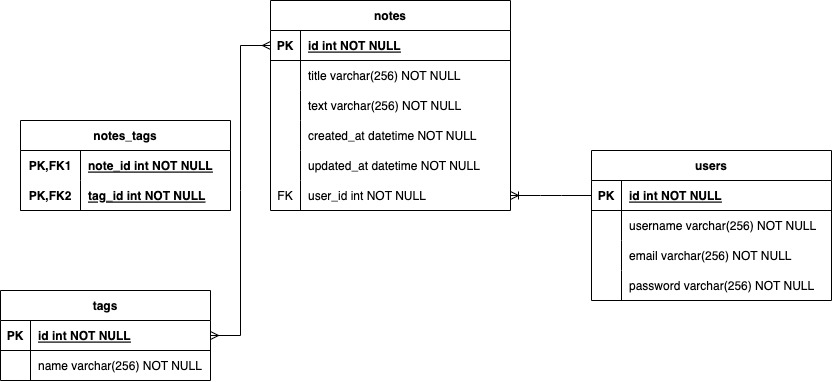
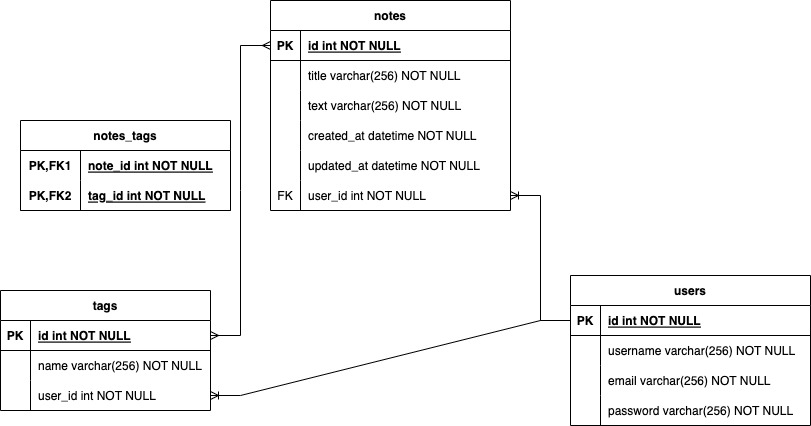
+ add tags

diff --git a/web/templates/web/tags.html b/web/templates/web/tags.html
@@ -1,0 +1,19 @@
+{% extends 'web/base.html' %}
+{% block content %}
+    <h2>Теги</h2>
+    <ul>
+        {% for tag in items %}
+            <li>
+                {{ tag.name }}
+                <small><a href="{% url 'tags_delete' tag.id %}">удалить</a></small>
+            </li>
+        {% endfor %}
+    </ul>
+    <br>
+    <b>Добавление тега</b>
+    <form action="" method="post">
+        {% csrf_token %}
+        {{ form.as_p }}
+        <button>Сохранить тег</button>
+    </form>
+{% endblock %}

diff --git a/web/templates/web/base.html b/web/templates/web/base.html
@@ -15,6 +15,7 @@
         </div>
     {% else %}
         <a href="{% url 'note_add' %}">Создать заметку</a>
+        <a href="{% url 'tags' %}">Теги</a>
         <div style="text-align: right">
             {% if not user.is_anonymous %}
                 Вы авторизованы как <b>{{ user.username }}</b>

diff --git a/web/migrations/0003_tag_user_alter_note_created_at_alter_note_image_and_more.py b/web/migrations/0003_tag_user_alter_note_created_at_alter_note_image_and_more.py
@@ -1,0 +1,62 @@
+# Generated by Django 4.1.5 on 2023-03-07 18:55
+
+from django.conf import settings
+from django.db import migrations, models
+import django.db.models.deletion
+
+
+class Migration(migrations.Migration):
+
+    dependencies = [
+        migrations.swappable_dependency(settings.AUTH_USER_MODEL),
+        ('web', '0002_note_image'),
+    ]
+
+    operations = [
+        migrations.AddField(
+            model_name='tag',
+            name='user',
+            field=models.ForeignKey(default=1, on_delete=django.db.models.deletion.CASCADE, to=settings.AUTH_USER_MODEL, verbose_name='Пользователь'),
+            preserve_default=False,
+        ),
+        migrations.AlterField(
+            model_name='note',
+            name='created_at',
+            field=models.DateTimeField(auto_now_add=True, verbose_name='Дата создания'),
+        ),
+        migrations.AlterField(
+            model_name='note',
+            name='image',
+            field=models.ImageField(blank=True, null=True, upload_to='notes/', verbose_name='Картинка'),
+        ),
+        migrations.AlterField(
+            model_name='note',
+            name='tags',
+            field=models.ManyToManyField(to='web.tag', verbose_name='Теги'),
+        ),
+        migrations.AlterField(
+            model_name='note',
+            name='text',
+            field=models.CharField(max_length=256, verbose_name='Текст'),
+        ),
+        migrations.AlterField(
+            model_name='note',
+            name='title',
+            field=models.CharField(max_length=256, verbose_name='Заголовок'),
+        ),
+        migrations.AlterField(
+            model_name='note',
+            name='updated_at',
+            field=models.DateTimeField(auto_now=True, verbose_name='Дата последнего редактирования'),
+        ),
+        migrations.AlterField(
+            model_name='note',
+            name='user',
+            field=models.ForeignKey(on_delete=django.db.models.deletion.CASCADE, to=settings.AUTH_USER_MODEL, verbose_name='Пользователь'),
+        ),
+        migrations.AlterField(
+            model_name='tag',
+            name='name',
+            field=models.CharField(max_length=256, verbose_name='Название тега'),
+        ),
+    ]

diff --git a/web/views.py b/web/views.py
@@ -2,10 +2,10 @@ import datetime
 
 from django.shortcuts import render, redirect
 
-from web.forms import RegistrationForm, AuthForm, NoteForm
+from web.forms import RegistrationForm, AuthForm, NoteForm, TagForm
 from django.contrib.auth import get_user_model, authenticate, login, logout
 
-from web.models import Note
+from web.models import Note, Tag
 
 User = get_user_model()
 
@@ -64,3 +64,24 @@ def note_edit_view(request, id=None):
             form.save()
             return redirect('main')
     return render(request, 'web/note_form.html', {'form': form})
+
+
+def _list_editor_view(request, model_cls, form_cls, template_name, url_name):
+    items = model_cls.objects.filter(user=request.user)
+    form = form_cls()
+    if request.method == 'POST':
+        form = form_cls(data=request.POST, initial={"user": request.user})
+        if form.is_valid():
+            form.save()
+            return redirect(url_name)
+    return render(request, f"web/{template_name}.html", {"items": items, "form": form})
+
+
+def tags_view(request):
+    return _list_editor_view(request, Tag, TagForm, "tags", "tags")
+
+
+def tags_delete_view(request, id):
+    tag = Tag.objects.get(id=id)
+    tag.delete()
+    return redirect('tags')

diff --git a/web/urls.py b/web/urls.py
@@ -1,7 +1,7 @@
 from django.contrib import admin
 from django.urls import path
 
-from web.views import main_view, registration_view, auth_view, logout_view, note_edit_view
+from web.views import main_view, registration_view, auth_view, logout_view, note_edit_view, tags_view, tags_delete_view
 
 urlpatterns = [
     path('', main_view, name='main'),
@@ -10,4 +10,6 @@ urlpatterns = [
     path('logout/', logout_view, name='logout'),
     path('notes/add/', note_edit_view, name='note_add'),
     path('notes/<int:id>/', note_edit_view, name='note_edit'),
+    path('tags/', tags_view, name='tags'),
+    path('tags/<int:id>/delete/', tags_delete_view, name='tags_delete'),
 ]

diff --git a/web/forms.py b/web/forms.py
@@ -3,7 +3,7 @@ import datetime
 from django import forms
 from django.contrib.auth import get_user_model
 
-from web.models import Note
+from web.models import Note, Tag
 
 User = get_user_model()
 
@@ -34,4 +34,14 @@ class NoteForm(forms.ModelForm):
 
     class Meta:
         model = Note
-        fields = ('title', 'text', 'image')
+        fields = ('title', 'text', 'image', 'tags')
+
+
+class TagForm(forms.ModelForm):
+    def save(self, commit=True):
+        self.instance.user = self.initial['user']
+        return super().save(commit)
+
+    class Meta:
+        model = Tag
+        fields = ('name',)

diff --git a/web/models.py b/web/models.py
@@ -8,6 +8,10 @@ User = get_user_model()
 
 class Tag(models.Model):
     name = models.CharField(max_length=256, verbose_name='Название тега')
+    user = models.ForeignKey(User, on_delete=models.CASCADE, verbose_name='Пользователь')
+
+    def __str__(self):
+        return self.name
 
 
 class Note(models.Model):
